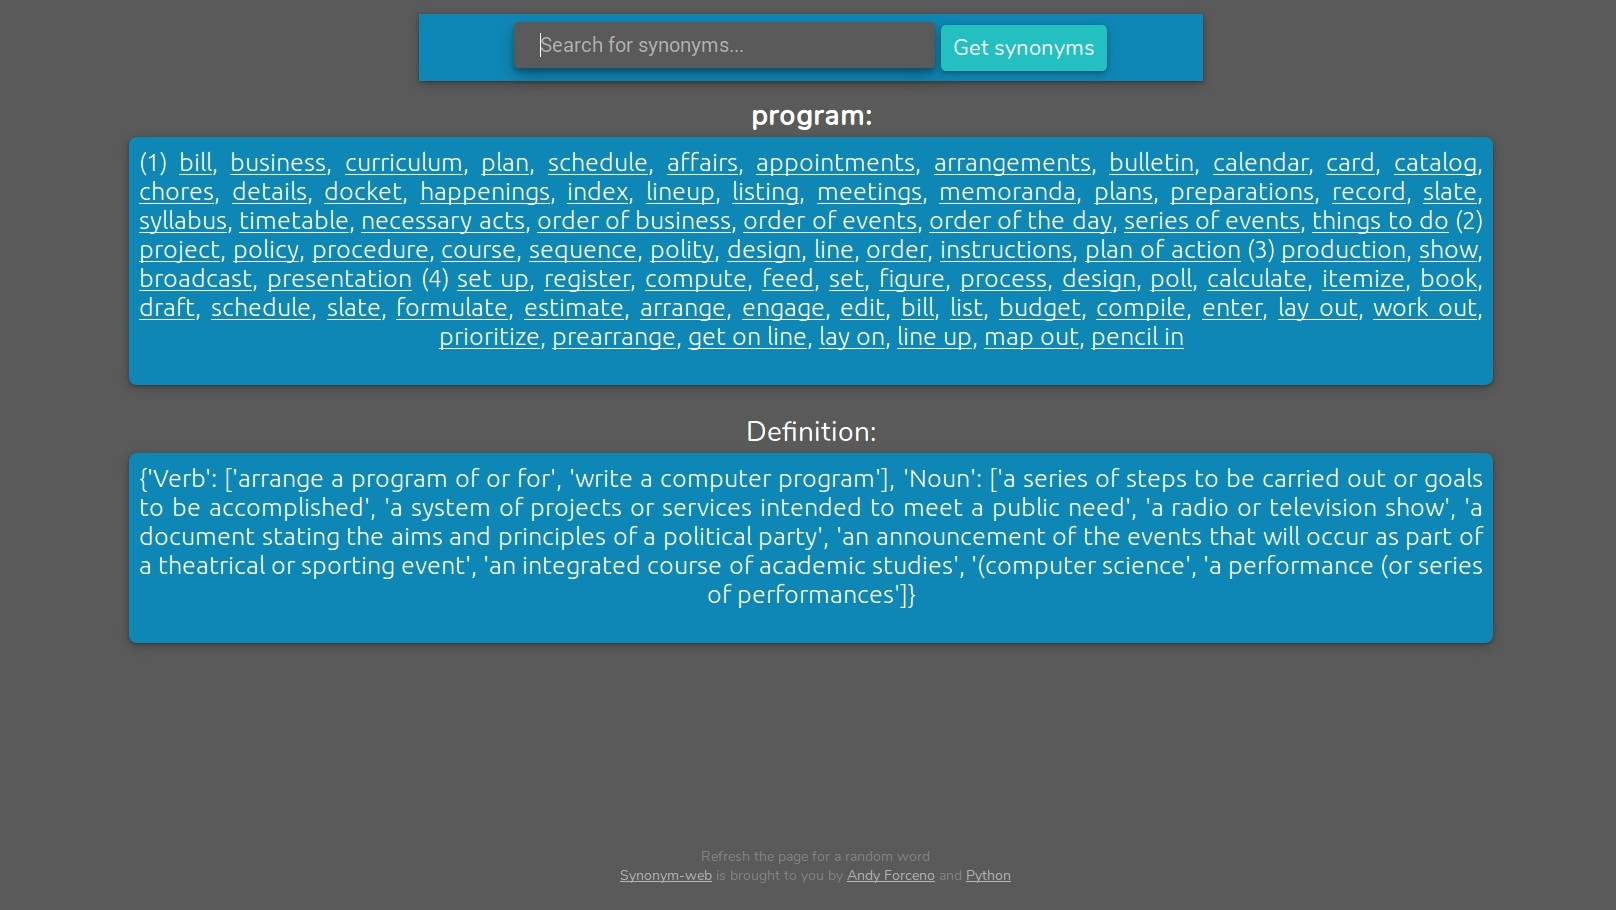
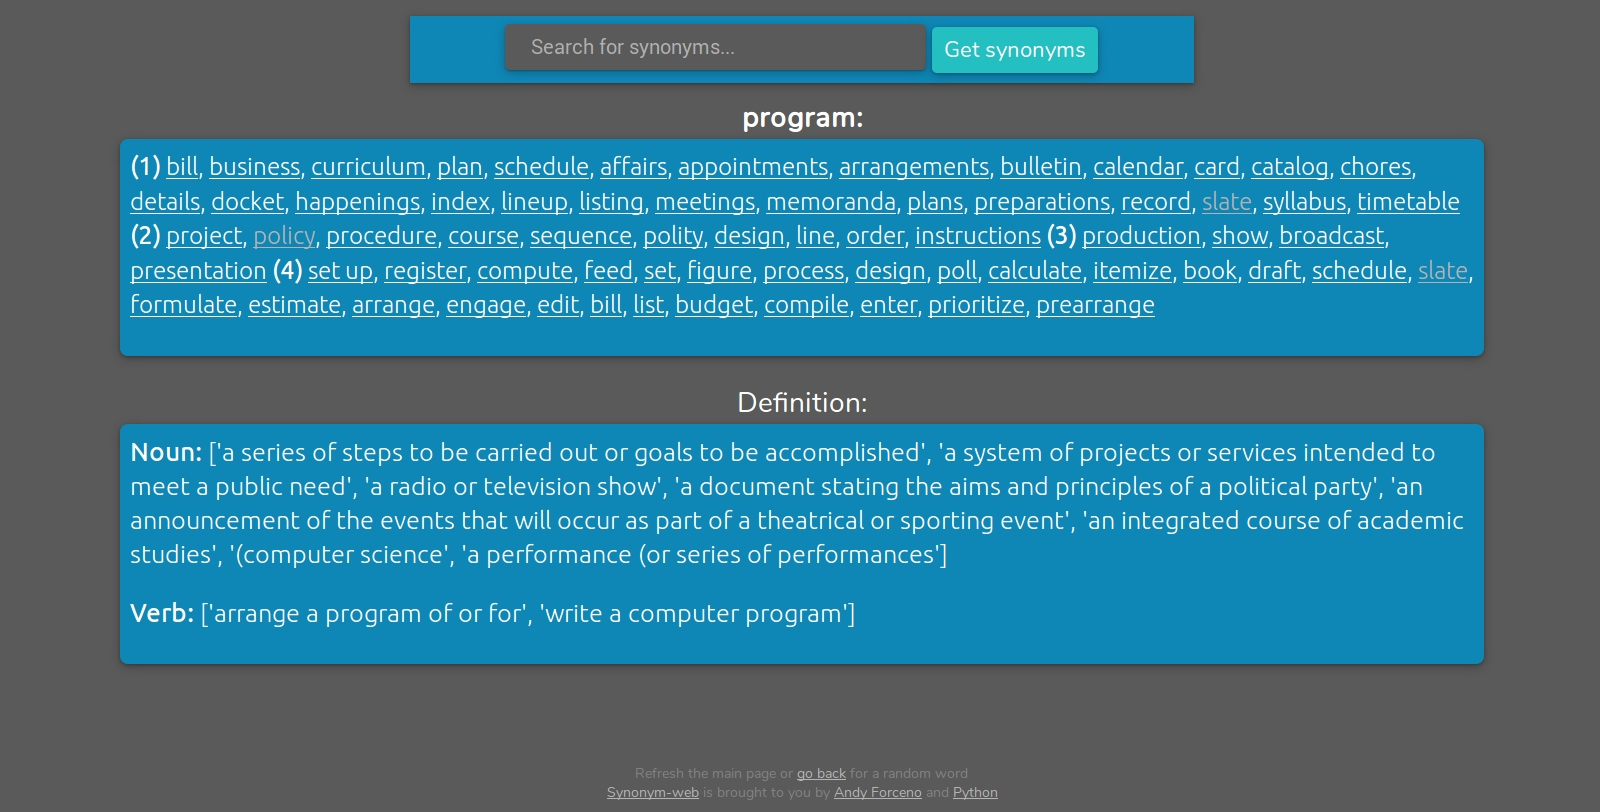
css & html tweaks

diff --git a/app/templates/index.html b/app/templates/index.html
@@ -5,7 +5,7 @@
     <title>Synonym Search</title>
     <meta name="viewport" content="width=device-width, initial-scale=1.0" />
     <link rel="stylesheet" type="text/css" href="../static/stylesheet.css" media="screen"/>
-    <!-- <link rel="icon" href="../static/img/favicon.png"> -->
+    <link rel="icon" href="favicon.png">
     <link href="https://fonts.googleapis.com/css?family=Gafata|Nunito|Roboto+Slab|Quattrocento+Sans|Ubuntu:300" rel="stylesheet">
 </head>
 
@@ -22,14 +22,14 @@
   <center>
 <div class="content"><b>{{word}}:</b> 
 <div class="synonyms">
+  <!-- This is pretty ugly, but it works --> 
    {% if (synonyms is iterable) and (synonyms is not string) %}
+   <font size="5">
     {% for meanings in synonyms %}
-      <font size="5">
       {% if (loop.length > 1) %}
         <!-- Number each list of words with a common meaning -->
         <b>{% print("(""%s"")" % loop.index) %}</b>
       {% endif %}
-      </font>
       {% for w in meanings %}
       <!-- Don't insert a comma if we're at the last word -->
         {% if loop.last %}
@@ -43,7 +43,7 @@
     <!-- Otherwise, display Synonyms not found string -->
     {{ synonyms }}
     {% endif %} 
-  <p><p></div>
+</font><p><p></div>
 <p><p></p></p>
 <div class="textbox">
   Definition: <br></div>
@@ -59,7 +59,7 @@
 
 </p>
 </div>
-<div class="footer">Refresh the page for a random word<br>
+<div class="footer">Refresh the main page or <a href="../">go back</a> for a random word<br>
 <a href="https://github.com/andyforceno/synonym-web">Synonym-web</a> is brought to you by <a href="https://github.com/andyforceno">Andy Forceno</a> and <a href="https://www.python.org/">Python</a>
 </div>
 

diff --git a/app/static/stylesheet.css b/app/static/stylesheet.css
@@ -11,7 +11,7 @@ div.content {
   color: white;
 }
 
-div.synonyms {
+.synonyms {
   background: rgb(15,135,182);
   font-family: 'Ubuntu', sans-serif;
   font-size: 25px;
@@ -23,9 +23,7 @@ div.synonyms {
   line-height: 34px;
   box-shadow: 0 1px 2px 0 rgba(0, 0, 0, 0.25), 0 3px 9px 0 rgba(0, 0, 0, 0.25);
   color: white;
-  text-align: justify; 
-  -moz-text-align-last: center; 
-  text-align-last: center; 
+  text-align: left;
   border-radius: 8px;
 }
 
@@ -152,7 +150,6 @@ a:hover {
     padding: 4px;
     box-shadow: 0 1px 2px 0 rgba(0, 0, 0, 0.25), 0 3px 9px 0 rgba(0, 0, 0, 0.25);
     color: white;
-    align-items: center;
     text-align: left;
     border-radius: 8px;
   }
